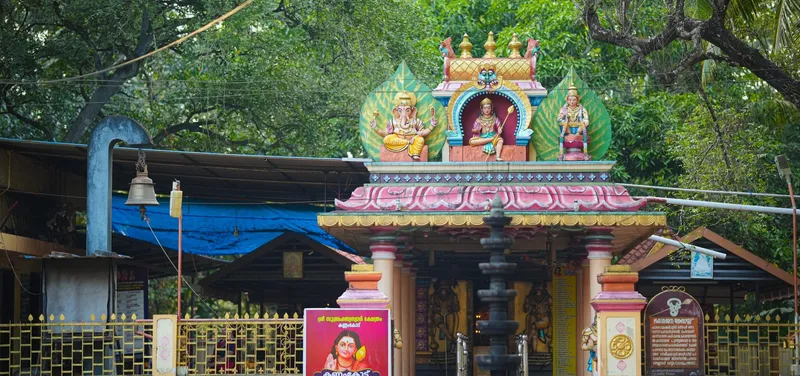
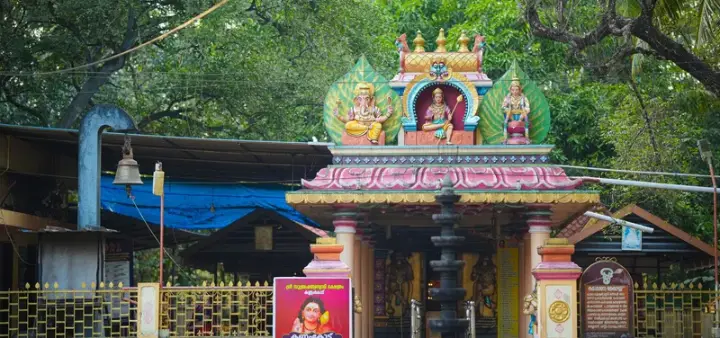
perf: optimize FCP with non-blocking CSS, compress mobile webps, and resolve line-clamp vendor prefixes

diff --git a/css/style.css b/css/style.css
@@ -2337,28 +2337,32 @@ body {
 /* ShinyText - Sweeping Gold Sheen */
 .shiny-text {
   color: #FFE6BD;
-  background: linear-gradient(120deg,
-      rgba(255, 230, 189, 0.4) 0%,
-      rgba(255, 255, 255, 1) 50%,
-      rgba(255, 230, 189, 0.4) 100%);
+  background: linear-gradient(
+    120deg,
+    rgba(255, 230, 189, 0.4) 0%,
+    rgba(255, 255, 255, 1) 50%,
+    rgba(255, 230, 189, 0.4) 100%
+  );
   background-size: 200% 100%;
   -webkit-background-clip: text;
   background-clip: text;
   display: inline-block;
-  animation: shineSweep linear infinite;
+  will-change: opacity, transform;
+  animation: shineFade 2.4s ease-in-out infinite alternate;
 }
 
 .shiny-text.disabled {
   animation: none;
 }
 
-@keyframes shineSweep {
+@keyframes shineFade {
   0% {
-    background-position: 100% 0;
+    opacity: 0.85;
+    filter: brightness(0.95);
   }
-
   100% {
-    background-position: -100% 0;
+    opacity: 1;
+    filter: brightness(1.25);
   }
 }
 
@@ -2446,6 +2450,7 @@ body {
   margin-bottom: 0.9rem;
   display: -webkit-box;
   -webkit-line-clamp: 4;
+  line-clamp: 4;
   -webkit-box-orient: vertical;
   overflow: hidden;
 }
@@ -2903,6 +2908,7 @@ body {
 
   .home-festivals-section .event-desc {
     -webkit-line-clamp: unset !important;
+    line-clamp: unset !important;
     max-height: none;
     font-size: 0.88rem;
     line-height: 1.7;

diff --git a/index.html b/index.html
@@ -40,15 +40,19 @@
     <link rel="preload" href="/fonts/sJov3K5XjsSdcnzn071rL37lpAOsUThnDZIfPdbeSNzVakglNOWc6zDg56wK.woff2" as="font" type="font/woff2" crossorigin />
 
     <!-- Self-hosted Google Fonts stylesheet -->
-    <link rel="preload" href="/fonts/google-fonts.css" as="style" />
-    <link rel="stylesheet" href="/fonts/google-fonts.css" />
+    <link rel="stylesheet" href="/fonts/google-fonts.css" media="print" onload="this.media='all'" />
+    <noscript>
+      <link rel="stylesheet" href="/fonts/google-fonts.css" />
+    </noscript>
 
     <!-- Preload Critical Local Web Fonts with fetchpriority=high Preloads -->
     <link rel="preload" href="/webfonts/fa-solid-900.woff2" as="font" type="font/woff2" crossorigin />
 
     <!-- Bootstrap 5 CSS -->
-    <link rel="preload" href="/css/bootstrap.min.css" as="style" />
-    <link rel="stylesheet" href="/css/bootstrap.min.css" />
+    <link rel="stylesheet" href="/css/bootstrap.min.css" media="print" onload="this.media='all'" />
+    <noscript>
+      <link rel="stylesheet" href="/css/bootstrap.min.css" />
+    </noscript>
     
     <!-- Font Awesome (Self-hosted with font-display: swap) -->
     <link rel="stylesheet" href="/css/fontawesome.min.css" media="print" onload="this.media='all'" />

diff --git a/src/components/SplashScreen.jsx b/src/components/SplashScreen.jsx
@@ -15,15 +15,25 @@ export default function SplashScreen({ onFinish }) {
   const [fading, setFading] = useState(false);
 
   useEffect(() => {
-    // Hold splash screen for 3.4 seconds to enjoy the festive photo bunting, then smoothly fade out
+    // Respect user prefers-reduced-motion: if reduced motion is requested, dismiss immediately
+    if (
+      typeof window !== 'undefined' &&
+      window.matchMedia &&
+      window.matchMedia('(prefers-reduced-motion: reduce)').matches
+    ) {
+      if (onFinish) onFinish();
+      return;
+    }
+
+    // Festive photo bunting holds for 1.8 seconds then smoothly fades out
     const fadeTimer = setTimeout(() => {
       setFading(true);
-    }, 3400);
+    }, 1800);
 
     // Completely unmount after fade transition completes
     const exitTimer = setTimeout(() => {
       if (onFinish) onFinish();
-    }, 4100);
+    }, 2400);
 
     return () => {
       clearTimeout(fadeTimer);
